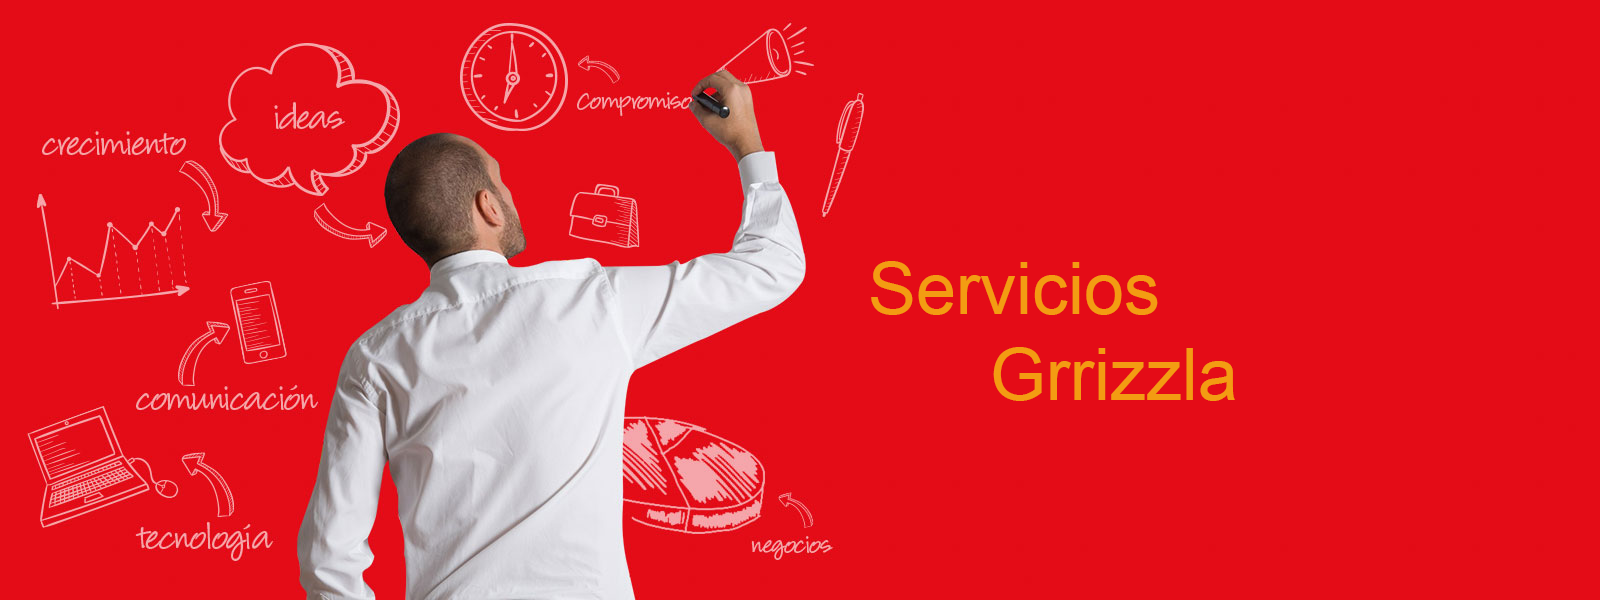
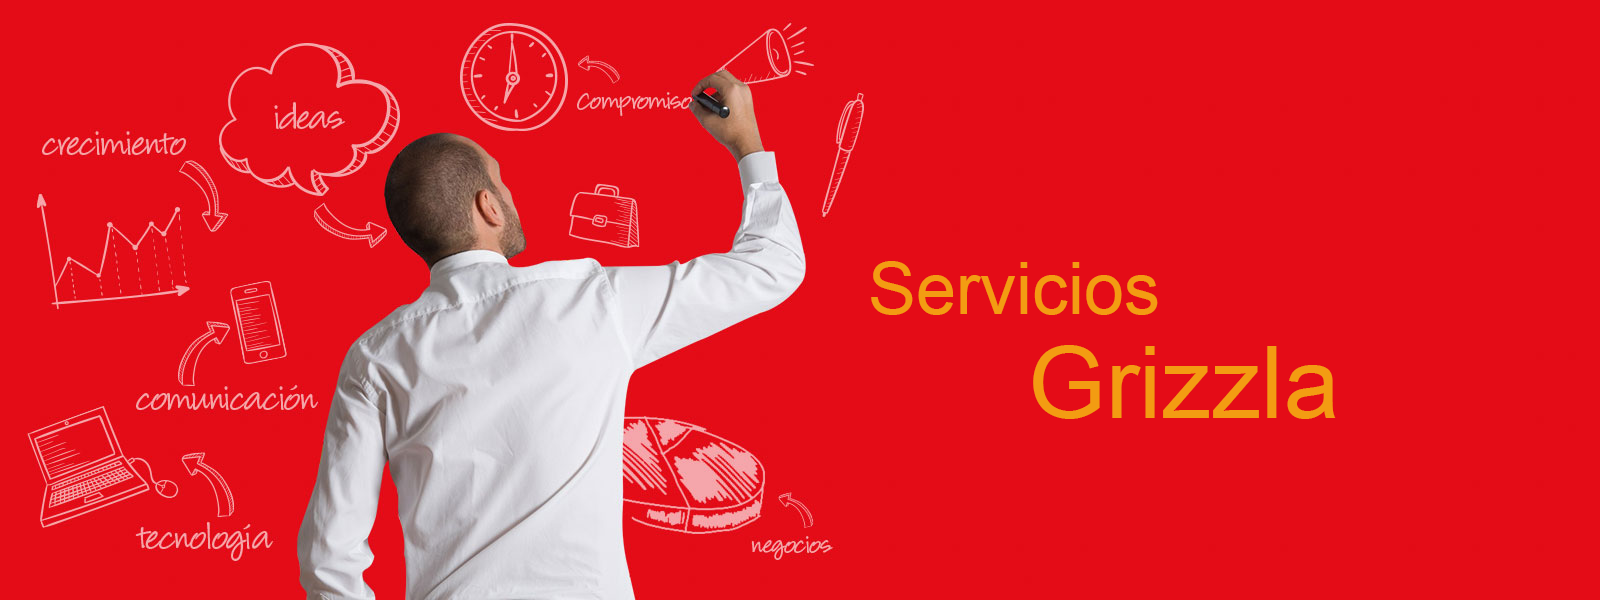
mitad de servicios

Changed region(s): [[0.5938, 0.57, 0.8438, 0.72]]

diff --git a/css/estilosdos.css b/css/estilosdos.css
@@ -349,6 +349,90 @@ footer {
 }
 
 
+/*---------servicio-----------*/
+
+.bannerser {
+    position: relative;
+    width: 100%;
+    height: 450px;
+    background: url('../img/bannerser.png') no-repeat center;
+    background-size: cover;
+    background-position: center center;
+    background-repeat: no-repeat;
+    /*background-attachment: fixed;*/
+    overflow: hidden;
+}
+
+.contenser {
+    /*outline: 2px red solid;*/
+    width: 100%;
+    height: 450px;
+    overflow: hidden;
+}
+
+.ser {
+    /*outline: 2px green solid;*/
+    margin: 0 auto;
+    width: 80%;
+    margin-top: 2%;
+    overflow: hidden;
+}
+
+.publicidad {
+    outline: 1px #F39C12 solid;
+    width: 40%;
+    float: left;
+    margin-bottom: 2%/*border-right: 1px red solid;*/
+    /*border-bottom: 1px red solid;*/
+}
+
+.publicidad2 {
+    outline: 1px #F39C12 solid;
+    width: 40%;
+    float: right;
+    margin-right: 2%;
+    margin-bottom: 2%/*border-right: 1px red solid;*/
+    /*border-bottom: 1px red solid;*/
+}
+
+.tit_publi {
+    background-color: #F39C12;
+    text-align: center;
+    font-family: 'Roboto', sans-serif;
+    font-size: 30px;
+    padding-top: 1%;
+    padding-bottom: 1%;
+}
+
+.contenimgpuntos {
+    /*outline: 2px red solid;*/
+    width: 100%;
+    /*margin-top: 2%;*/
+}
+
+.img,
+.puntospu {}
+
+.img {
+    float: left;
+}
+
+.puntospu {
+    float: right;
+    margin-top: 10%;
+    font-family: 'Roboto', sans-serif;
+    font-size: 20px;
+    margin-right: 5%;
+}
+
+.ser2 {
+    outline: 2px green solid;
+    margin: 0 auto;
+    width: 90%;
+    /*margin-top: 2%;*/
+}
+
+
 /*-------------contacto------*/
 
 .bannercont {

diff --git a/vistas/servicios.php b/vistas/servicios.php
@@ -1,0 +1,74 @@
+<!DOCTYPE html>
+
+<?php include 'headdos.php';?>
+
+
+<body>
+
+        <?php include 'menudos.php';?>
+
+<span class="ir-arriba icon-chevron-up"></span>
+
+<article class="bannerser" style="display:none;"></article>
+<article class="titulocont" style="display:none;"><p>Contamos con un área específica para cada necesidad de su negocio.</p></article>
+
+<article class="contenser">
+	<article class="ser">
+		<article class="publicidad scrollflow -slide-left -opacity">
+			<p class="tit_publi">PUBLICIDAD</p>
+			<article class="contenimgpuntos">
+				<img class="img" src="../img/publicidad.jpg" width="250" height="250" alt="">
+				<article class="puntospu">
+					<li>Anuncios</li>
+					<li>Lonas</li>
+					<li>Fliyers</li>
+					<li>Banners</li>
+					<li>Unipolares</li>
+					<li>De neón</li>
+				</article>
+			</article>
+		</article>
+
+		<article class="publicidad2 scrollflow -slide-right -opacity">
+			<p class="tit_publi">Material para publicidad</p>
+			<article class="contenimgpuntos">
+				<img class="img" src="../img/vinilos.png" width="250" height="250" alt="">
+				<article class="puntospu">
+					<li>Lonas</li>
+					<li>Textiles</li>
+					<li>Vinilos</li>
+					<li>Barnices</li>
+					<li>Displays</li>
+					<li>Laminados</li>
+				</article>
+			</article>
+		</article>		
+	</article>
+
+<article class="ser2">
+	
+</article>
+
+
+</article>
+
+
+<?php include 'pie.php';?>
+
+
+<script src="../js/jquery.js"></script>
+<script src="../js/eskju.jquery.scrollflow.min.js"></script>
+<script type="text/javascript" src="../js/iconoarriba.js"></script>
+<script type="text/javascript">
+$(document).ready(function(){
+	 $(document).ready(function () {
+		 $('.header').fadeIn(2500);
+		 $('.bannerser').fadeIn(2500);
+		 $('.titulocont').fadeIn(2500);
+		 $('footer').fadeIn(2500);
+	 });
+});
+</script>
+
+</body>
+</html>

diff --git a/vistas/menu.php b/vistas/menu.php
@@ -5,7 +5,7 @@
             <ul class="menu">
             <li class="menu_item"><a class="menu_link select" href="index.php" ><span class="icon-home"></span>&nbsp;Home</a></li>
             <li class="menu_item"><a class="menu_link" href="vistas/nosotros.php"><span class="icon-users"></span>&nbsp;Nosotros</a></li>
-            <li class="menu_item"><a class="menu_link" href=""><span class="icon-briefcase"></span>&nbsp;Servicios</a></li>
+            <li class="menu_item"><a class="menu_link" href="vistas/servicios.php"><span class="icon-briefcase"></span>&nbsp;Servicios</a></li>
             <li class="menu_item"><a class="menu_link" href="vistas/contacto.php"><span class="icon-phone"></span>&nbsp;Contacto</a></li>
           </ul>
           </nav>

diff --git a/vistas/menudos.php b/vistas/menudos.php
@@ -5,7 +5,7 @@
             <ul class="menu">
             <li class="menu_item"><a class="menu_link" href="../index.php" ><span class="icon-home"></span>&nbsp;Home</a></li>
             <li class="menu_item"><a class="menu_link" href="nosotros.php"><span class="icon-users"></span>&nbsp;Nosotros</a></li>
-            <li class="menu_item"><a class="menu_link" href=""><span class="icon-briefcase"></span>&nbsp;Servicios</a></li>
+            <li class="menu_item"><a class="menu_link" href="servicios.php"><span class="icon-briefcase"></span>&nbsp;Servicios</a></li>
             <li class="menu_item"><a class="menu_link" href="contacto.php"><span class="icon-phone"></span>&nbsp;Contacto</a></li>
           </ul>
           </nav>
